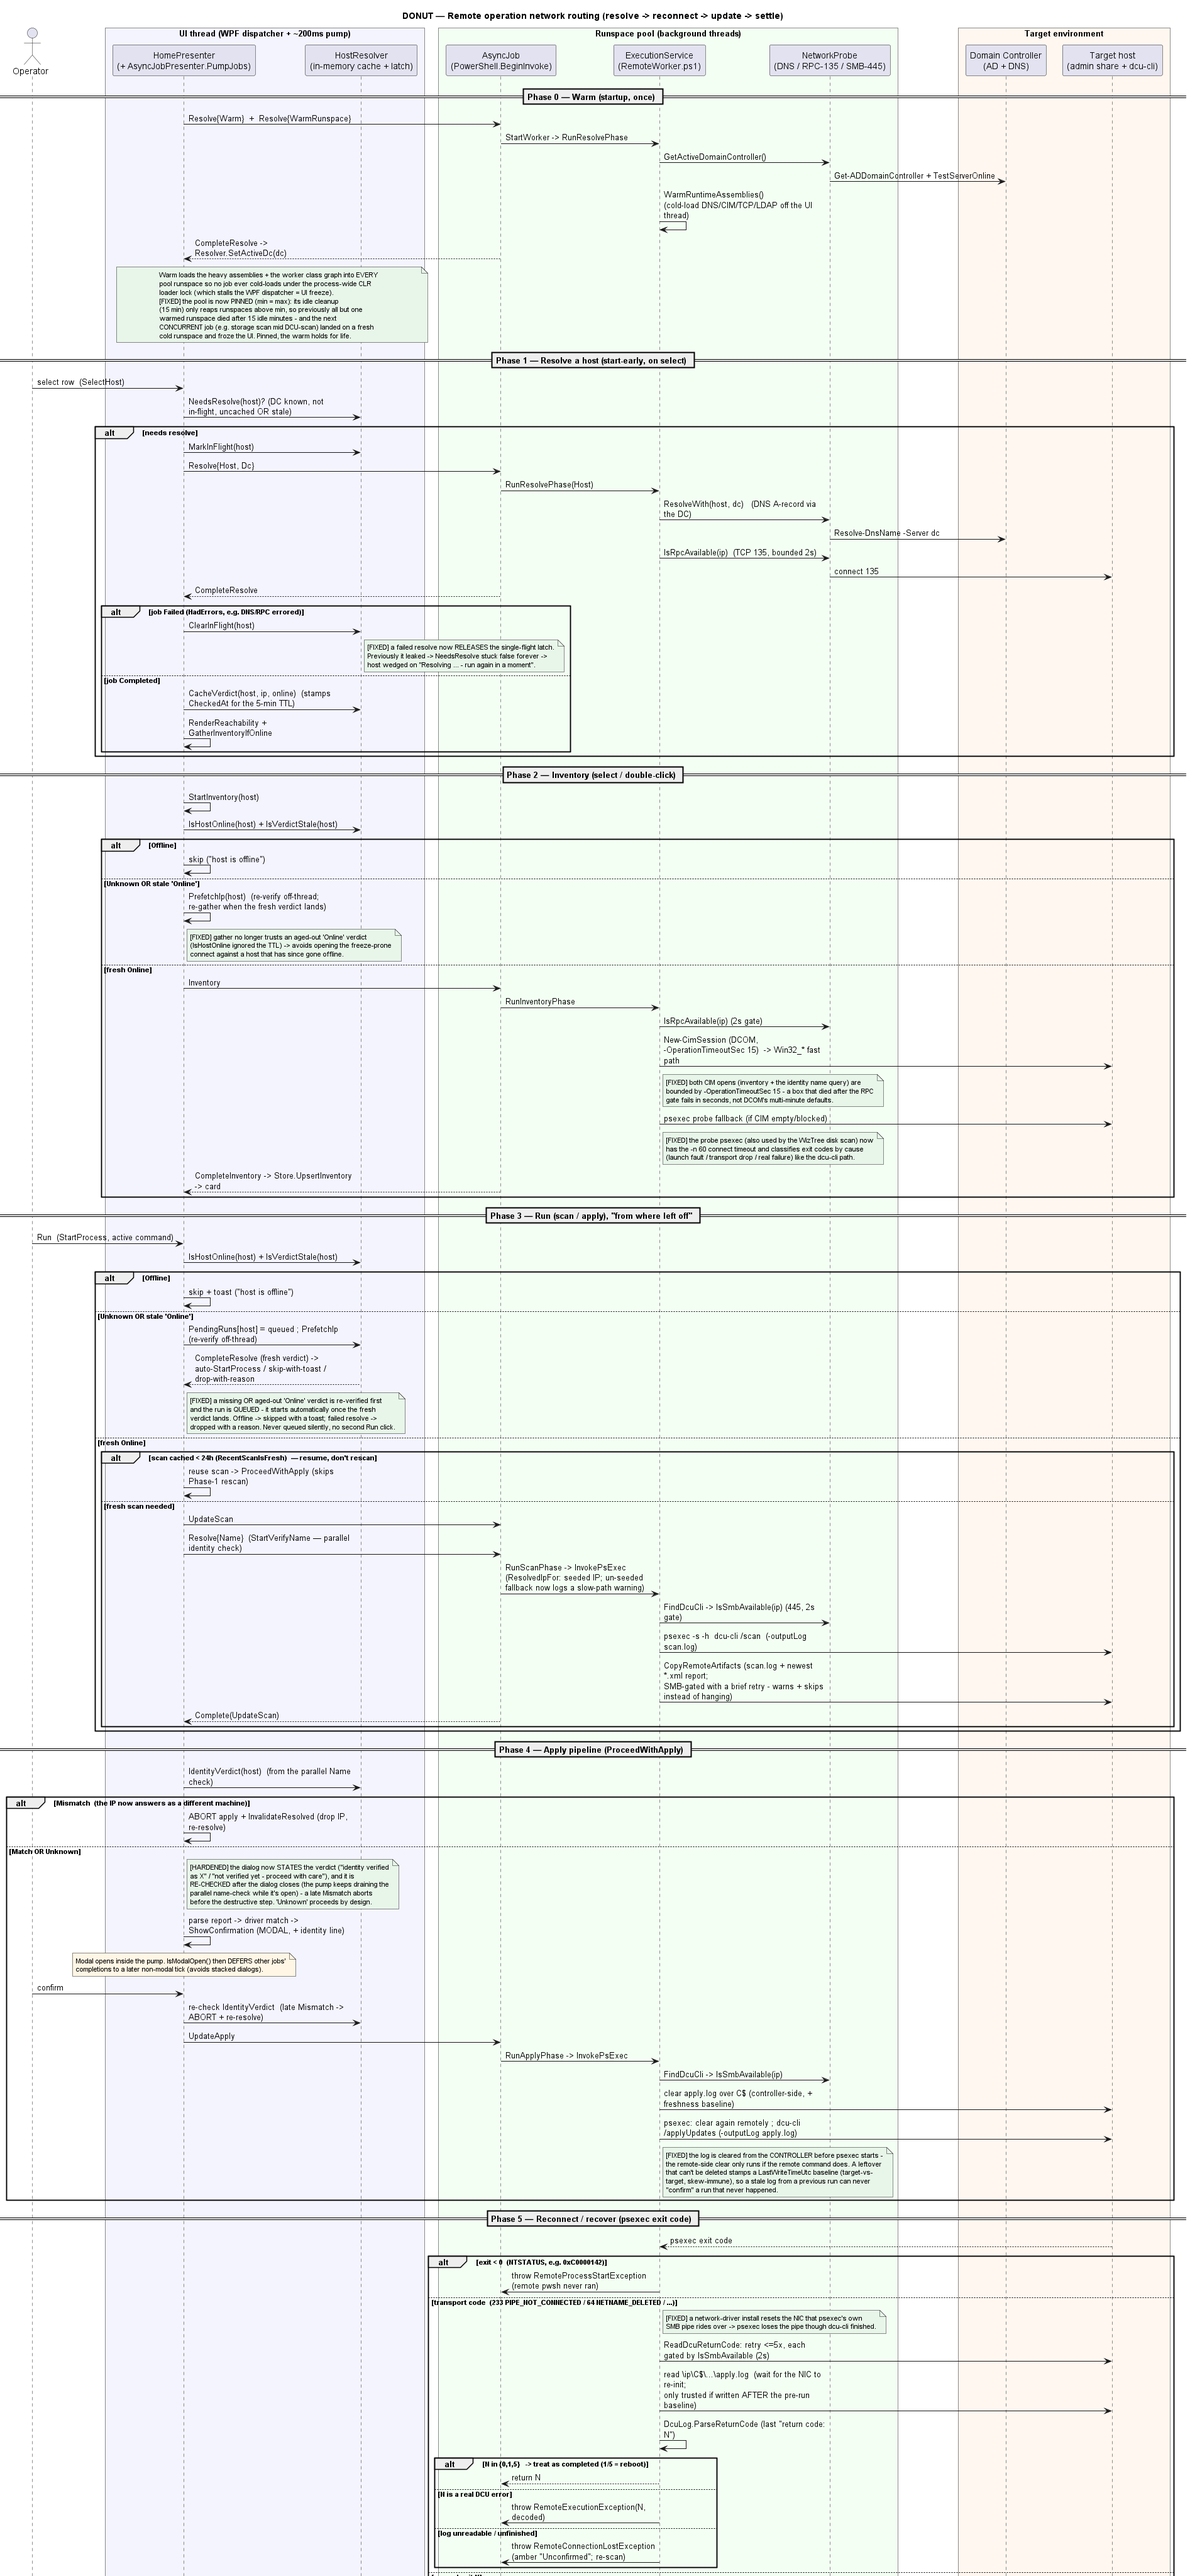
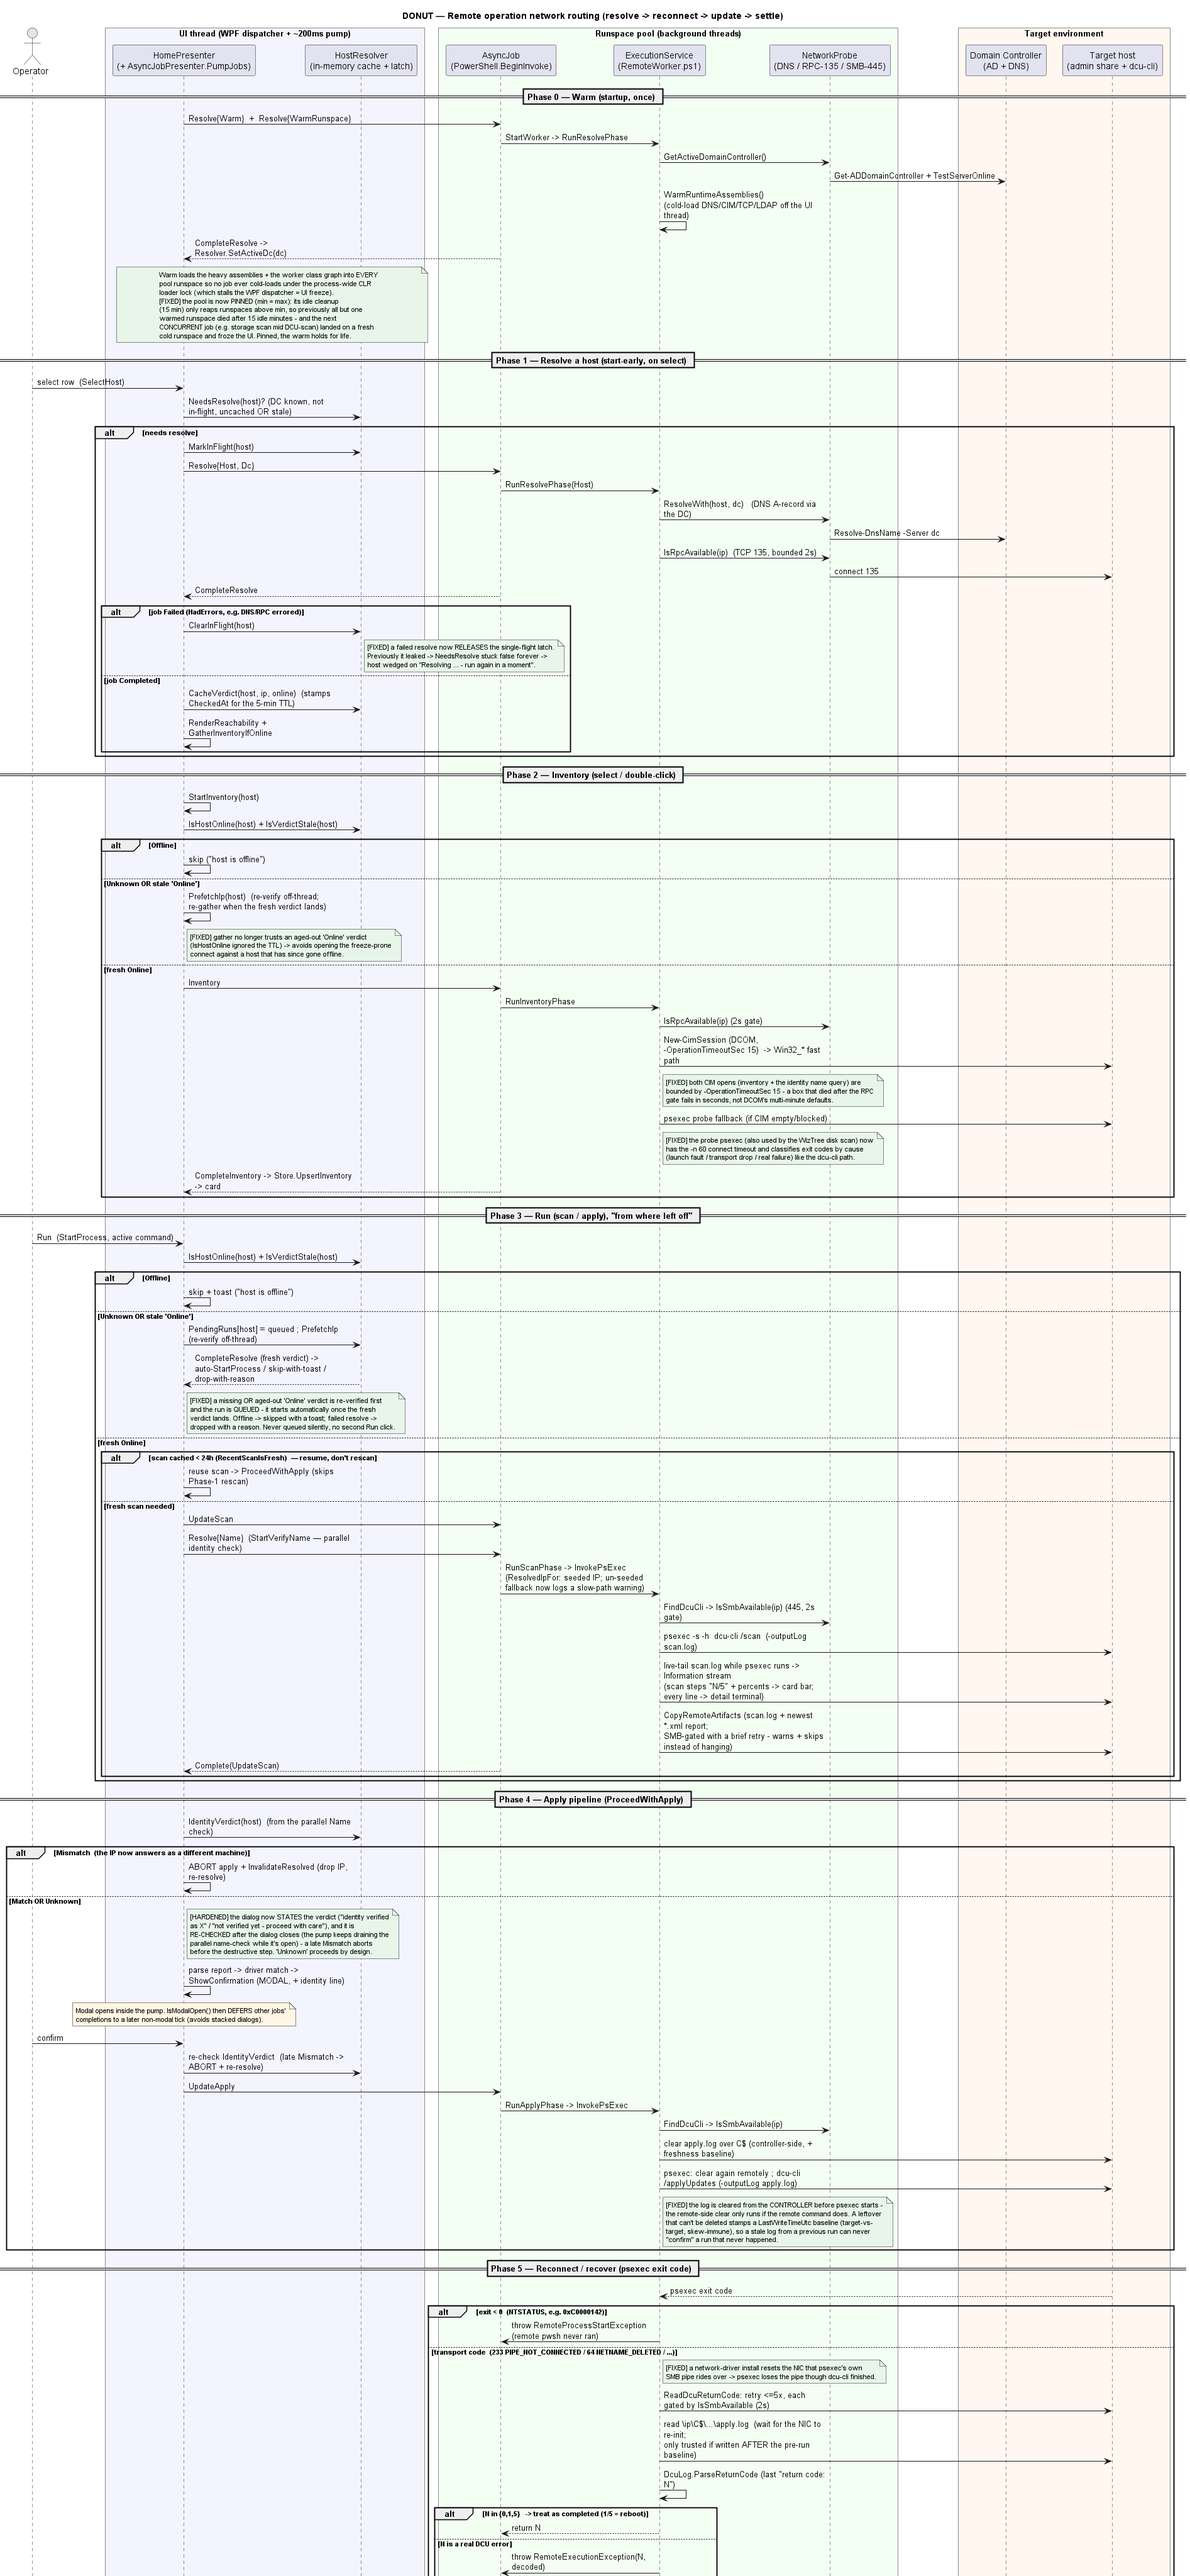
Live scan/apply progress from dcu-cli's outputLog + restore the lost run-freshness gate
Progress: the console psexec launch (kept for reliability) captures no output, so the
detail terminal showed nothing until a job finished. dcu-cli appends milestones and
percentages to its -outputLog AS IT RUNS, so InvokePsExec now polls psexec (PassThru,
no -Wait) and live-tails that file over the admin share, emitting each complete new line
to the Information stream - the pump already drains it per tick. Nothing touches
psexec's console/stdout (the 0xC0000142 suspect). Results:
 - the detail terminal streams dcu-cli's output live again,
 - scans show "N/5 <milestone>" beside the row bar (new DcuProgress.ParseScanStep maps
   the five scan lines; steps also drive the bar 20..100% since scans emit no percents),
 - applies get their determinate percent bar back (ParsePercent feeds off the same tail),
 - the end-of-job log dump (AppendHostLogs) is gone: it now only duplicated the stream,
   and after a FAILED job it replayed a stale previous-run file.
Tail is best-effort: only whole lines, offset-tracked, resets if the file is rewritten,
any read error skips the poll; a display failure can never affect the run.

Also RESTORES the hotspot-A run-freshness gate: commit 09928bc's message claimed it, but
the working tree had silently reverted (OneDrive sync rollback suspected) before that
commit, so only its B and E/F parts actually landed. Re-applied: PendingRuns field,
StartProcess stale/unknown-verdict gate (+ no-DC early-out), CompleteResolve auto-start /
[…]

Changed region(s): [[0.0, 0.625, 0.9974, 0.8125], [0.3428, 0.8125, 0.748, 0.9688], [0.374, 0.9688, 0.561, 1.0]]

diff --git a/src/UI/Views/HomeView.xaml b/src/UI/Views/HomeView.xaml
@@ -290,11 +290,26 @@
                     <TextBlock Text="{Binding Subtitle}" Foreground="{DynamicResource BodyTextTertiary}"
                                FontFamily="Montserrat" FontSize="11.5" TextTrimming="CharacterEllipsis" />
                   </StackPanel>
-                  <ProgressBar Grid.Column="2" Width="120" Height="4" Margin="12,0,12,0"
-                               VerticalAlignment="Center" Minimum="0" Maximum="100"
-                               Value="{Binding Percent}" IsIndeterminate="{Binding ProgressIndeterminate}"
-                               Foreground="{Binding ProgressBrush}" BorderThickness="0"
-                               Visibility="{Binding ProgressVisible, Converter={StaticResource BoolToVis}}" />
+                  <StackPanel Grid.Column="2" Width="120" Margin="12,0,12,0" VerticalAlignment="Center"
+                              Visibility="{Binding ProgressVisible, Converter={StaticResource BoolToVis}}">
+                    <ProgressBar Height="4" Minimum="0" Maximum="100"
+                                 Value="{Binding Percent}" IsIndeterminate="{Binding ProgressIndeterminate}"
+                                 Foreground="{Binding ProgressBrush}" BorderThickness="0" />
+                    <!-- Live milestone from dcu-cli's outputLog, e.g. "3/5 scanning devices". -->
+                    <TextBlock Text="{Binding StepText}" FontFamily="Montserrat" FontSize="9.5"
+                               Foreground="{DynamicResource BodyTextSecondary}" Margin="0,3,0,0"
+                               HorizontalAlignment="Center" TextTrimming="CharacterEllipsis">
+                      <TextBlock.Style>
+                        <Style TargetType="TextBlock">
+                          <Style.Triggers>
+                            <DataTrigger Binding="{Binding StepText}" Value="">
+                              <Setter Property="Visibility" Value="Collapsed" />
+                            </DataTrigger>
+                          </Style.Triggers>
+                        </Style>
+                      </TextBlock.Style>
+                    </TextBlock>
+                  </StackPanel>
                   <Border Grid.Column="3" CornerRadius="8" Padding="10,3,10,3" VerticalAlignment="Center"
                           Margin="0,0,8,0" Background="{Binding ChipBackground}"
                           Visibility="{Binding ChipVisible, Converter={StaticResource BoolToVis}}">
